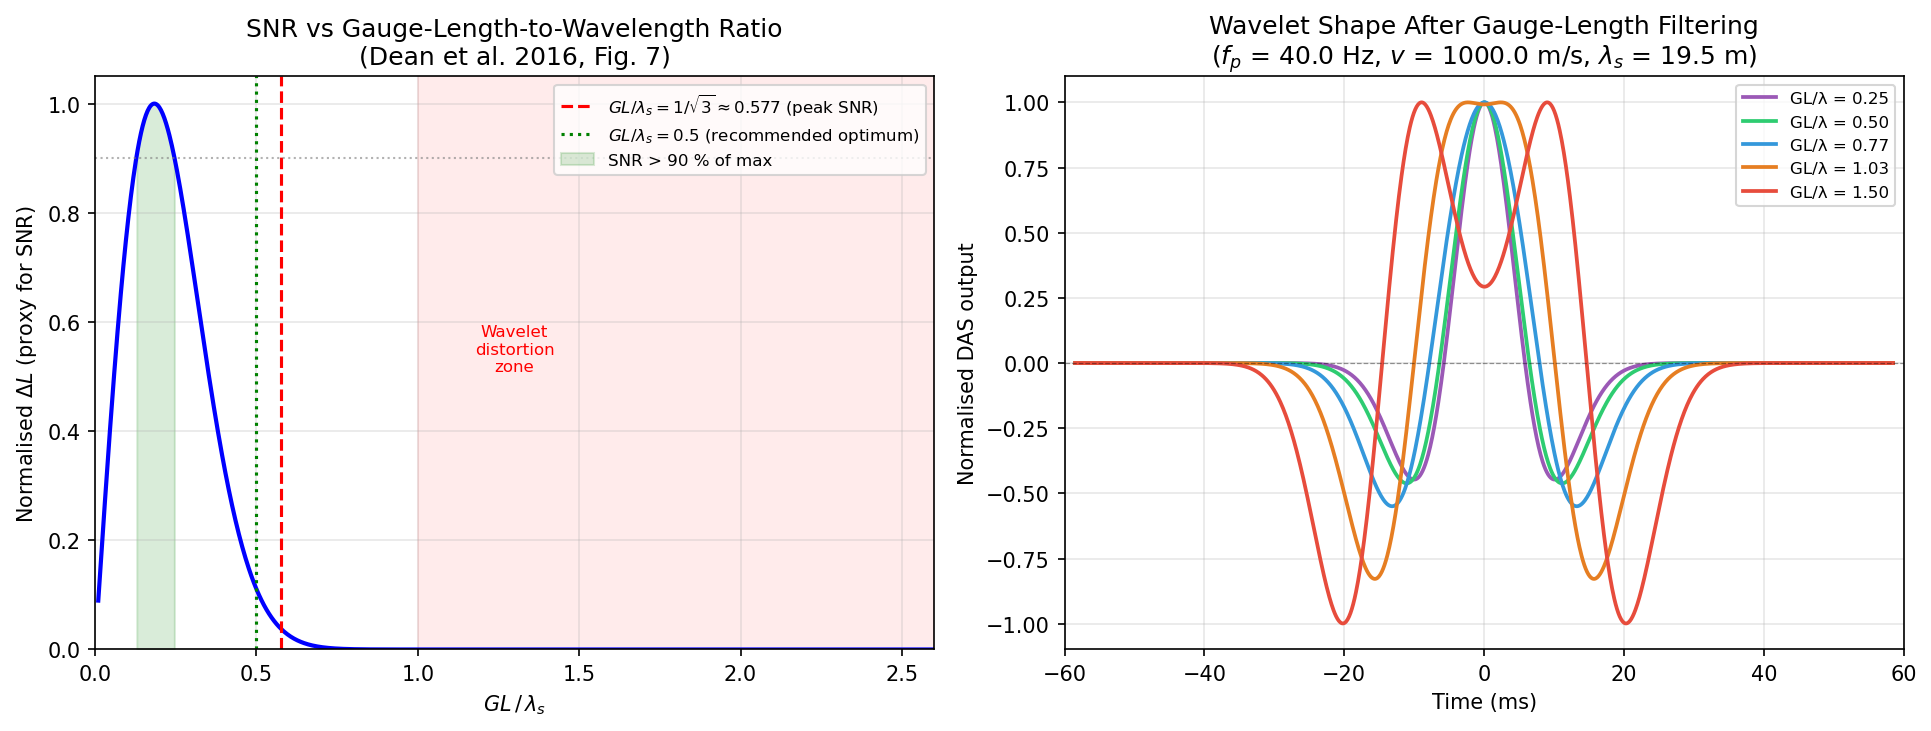
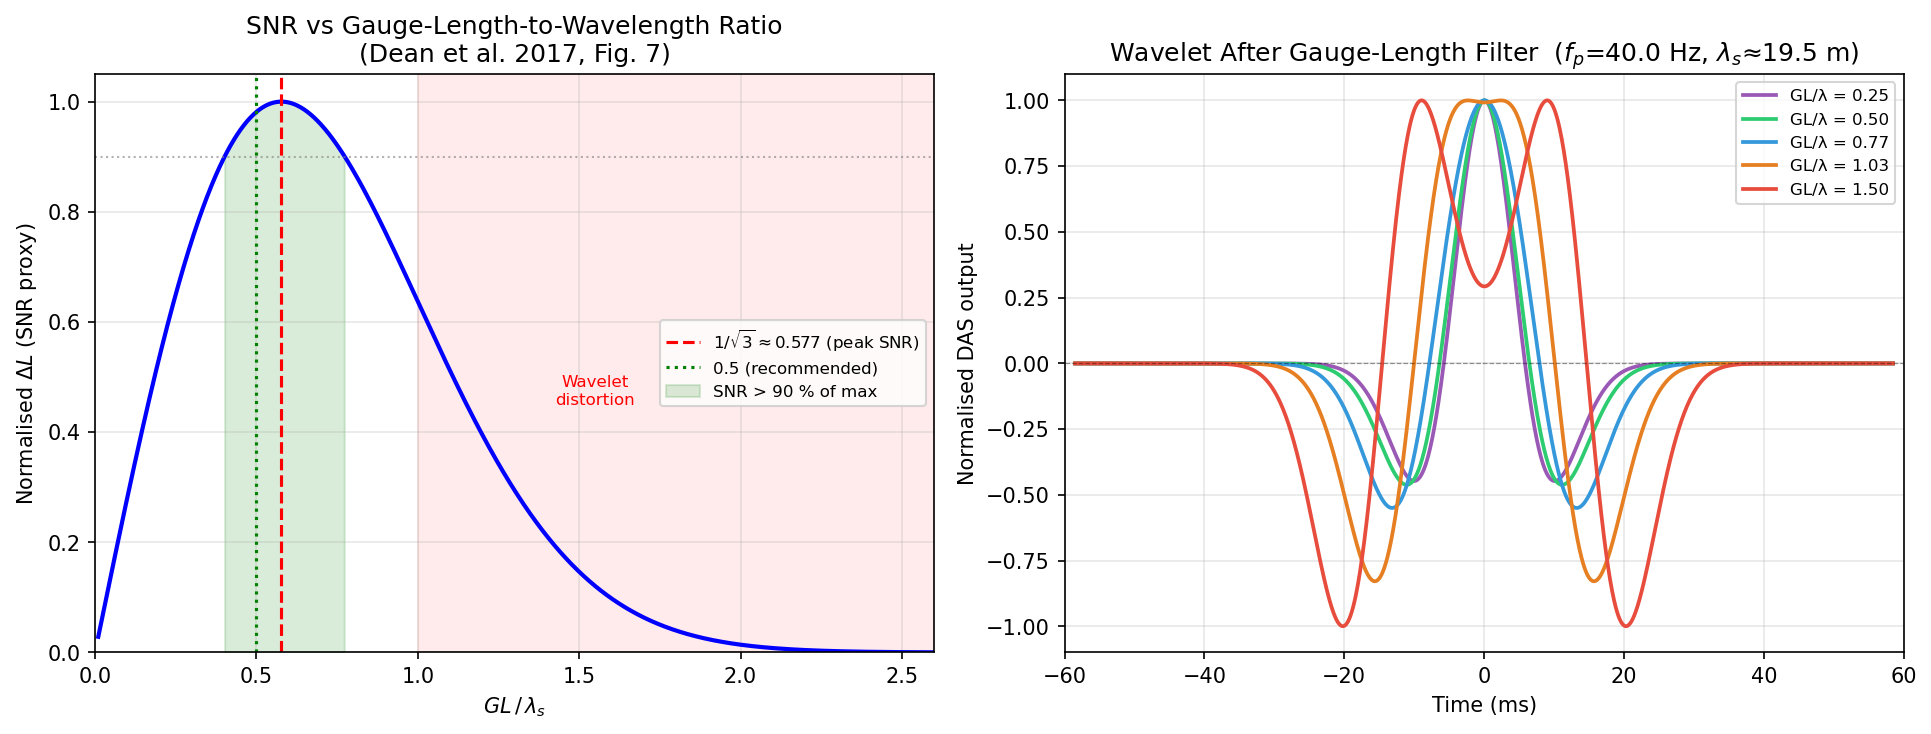
Fix ΔL peak location in das_gauge_opt.png (wrong by factor π²)
Root cause: DL formula used (π·k_r·GL/2)² instead of (k_r·GL/2)²,
where k_r = π·fp/v, giving an extra π² in the exponent and shifting
the SNR peak from GL/λ_s = 1/√3 ≈ 0.577 to ≈ 0.184.

Fix: remove the redundant np.pi factor inside the exponent.
Regenerated das_gauge_opt.png; peak now sits at 0.577 as expected.

diff --git a/docs/das.md b/docs/das.md
@@ -422,7 +422,7 @@ t        = np.arange(-T_half, T_half + dt, dt)
 eps      = (1 - 2*(np.pi*fp*t)**2) * np.exp(-(np.pi*fp*t)**2)
 
 GL_ratios = np.linspace(0.01, 2.6, 1000)
-DL        = GL_ratios * lambda_s * np.exp(-(np.pi*k_r * GL_ratios*lambda_s/2)**2)
+DL        = GL_ratios * lambda_s * np.exp(-(k_r * GL_ratios*lambda_s/2)**2)  # 无额外 π
 DL_norm   = DL / DL.max()
 
 fig, axes = plt.subplots(1, 2, figsize=(13, 5))
